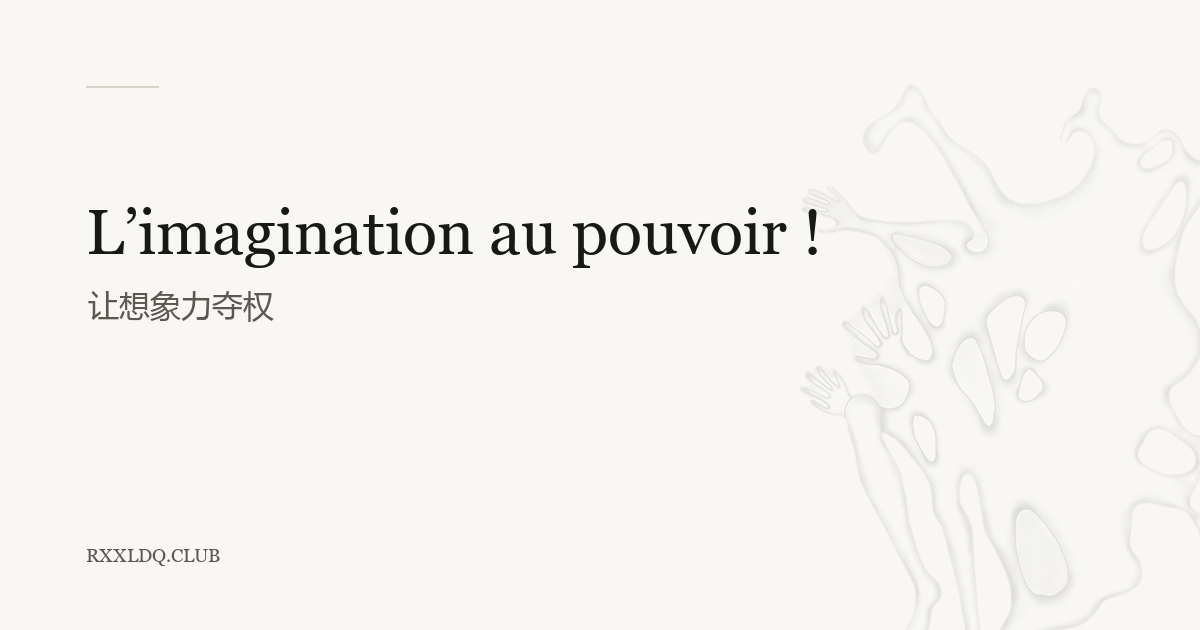
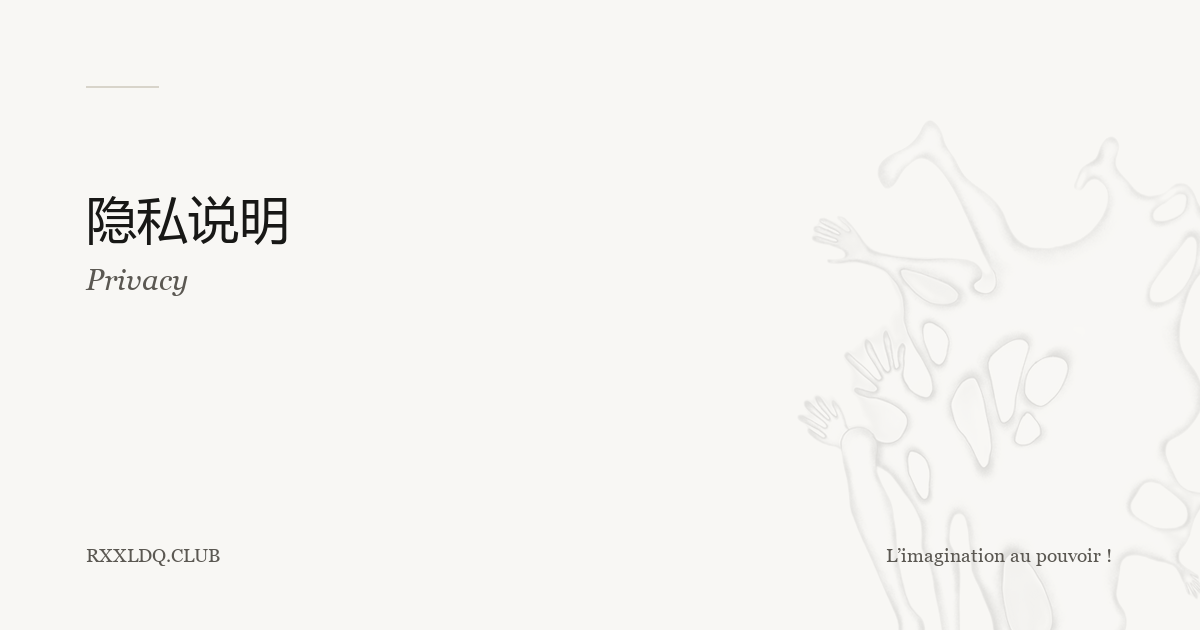
fix: dark-mode field borders, progress bar, privacy share card
- Brighter input and button borders in the dark subscribe dialog
- Dimmer reading progress bar in dark mode
- Dedicated privacy page share card replacing the placeholder

Changed region(s): [[0.0617, 0.3016, 0.6783, 0.5127], [0.74, 0.8746, 0.925, 0.9048]]

diff --git a/style.css b/style.css
@@ -3,6 +3,8 @@
   --ink: #22201c;
   --quiet: #6b665d;
   --rule: #ddd6c8;
+  --field-line: #ddd6c8;
+  --progress: #22201c;
   --select: #ebe3d2;
   --link-line: #ddd6c8;
   --surface: #f8f5ee;
@@ -27,6 +29,8 @@
     --ink: #ddd5c5;
     --quiet: #a39b8c;
     --rule: #3d372e;
+    --field-line: #6a6154;
+    --progress: #8a8071;
     --select: #4a3f2e;
     --link-line: #5a5246;
     --surface: #25211c;
@@ -47,6 +51,8 @@
   --ink: #ddd5c5;
   --quiet: #a39b8c;
   --rule: #3d372e;
+  --field-line: #6a6154;
+  --progress: #8a8071;
   --select: #4a3f2e;
   --link-line: #5a5246;
   --surface: #25211c;
@@ -107,7 +113,7 @@ body::before {
   display: block;
   width: 100%;
   height: 100%;
-  background: var(--ink);
+  background: var(--progress);
   transform: scaleX(0);
   transform-origin: left center;
 }
@@ -539,7 +545,7 @@ main p { margin: 0 0 1.45em; font-size: 1rem; line-height: 1.95; }
 .subscription-fields input,
 .subscription-fields button {
   min-height: 2.85rem;
-  border: 1px solid var(--rule);
+  border: 1px solid var(--field-line);
   border-radius: 0;
   font: inherit;
   font-size: 0.78rem;
@@ -677,7 +683,7 @@ html[lang="zh-CN"] .article-body p { line-height: 2; }
 .reader-message input {
   box-sizing: border-box;
   width: 100%;
-  border: 1px solid var(--rule);
+  border: 1px solid var(--field-line);
   border-radius: 0;
   background: transparent;
   color: var(--ink);
@@ -1086,6 +1092,8 @@ main[tabindex="-1"]:focus { outline: none; }
     --ink: #22201c;
     --quiet: #6b665d;
     --rule: #ddd6c8;
+    --field-line: #ddd6c8;
+    --progress: #22201c;
     --select: #ebe3d2;
     --link-line: #ddd6c8;
     --surface: #f8f5ee;
